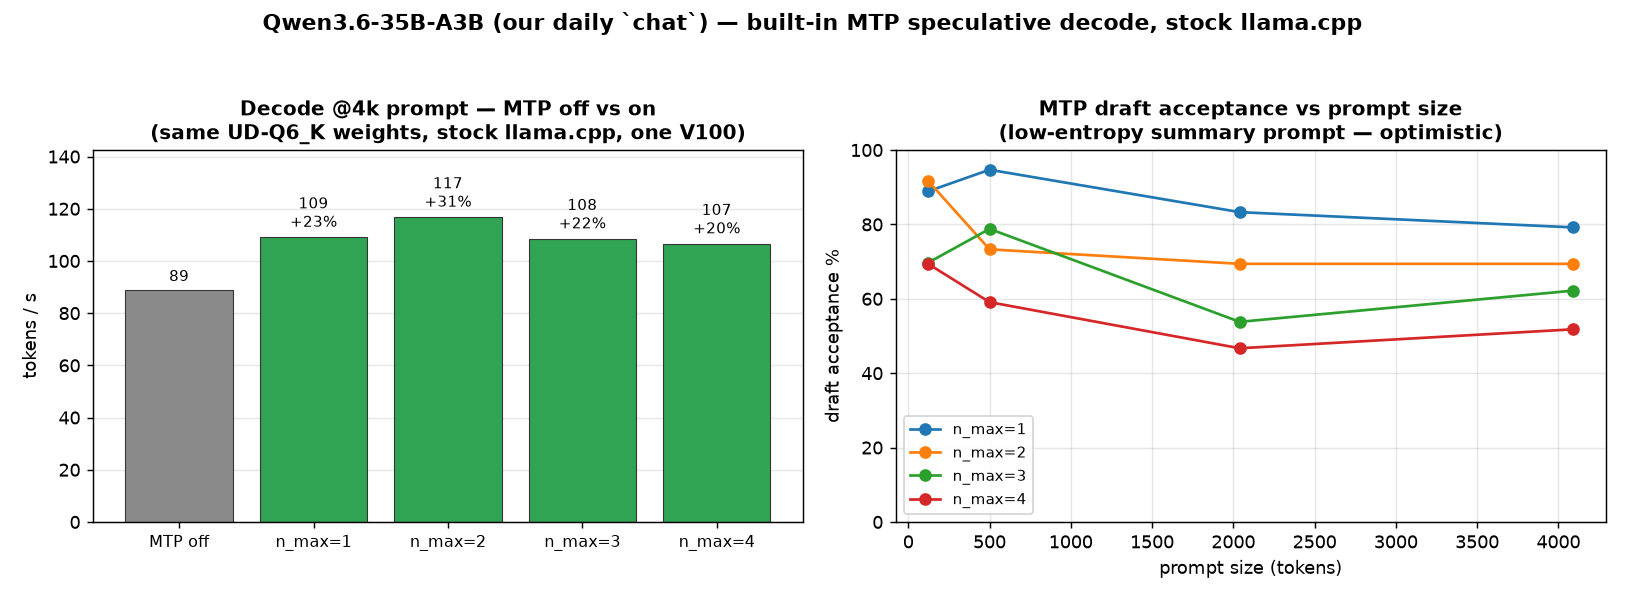
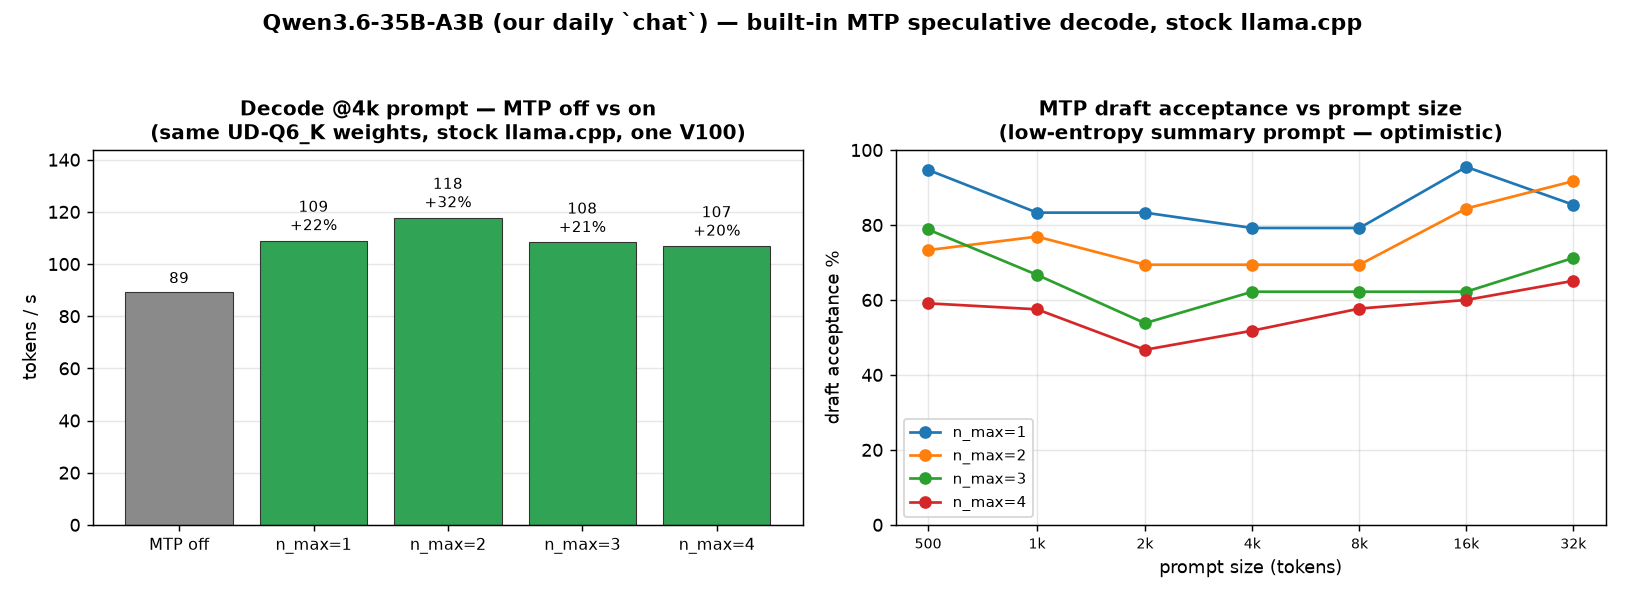
bench(mtp): extend chat prompt-size sweep to 500–32k and rerun
Widen the MTP prompt-size range in scripts/mtp-bench.py from [128,512,2048,4096]
to [512,1024,2048,4096,8192,16384,32768] and raise the test ctx 32768 -> 40960 so
a 32k prompt fits alongside the 256-token gen + margin (35B-A3B MoE q8_0 KV is
cheap; prod runs 96k).

- mtp-plot.py: keep the left "steady-state" panel pinned to the ~4k bucket (stable
  as the range grows, consistent with the other MTP sections) and put the
  acceptance panel on a log2 x-axis with k-formatted ticks for the wider range.
- Rerun on V100 idx1 (daily models unloaded/restored): decode @4k n_max=2 +32%
  (117.8 vs 89.3 t/s), and the wider range shows the gain grows to +57% @32k with
  a U-shaped acceptance curve that recovers to ~85–92% at 16–32k.
- benchmarking.md: refresh the @4k table, test config, and takeaways; add the
  long-context finding.

diff --git a/scripts/mtp-plot.py b/scripts/mtp-plot.py
@@ -41,9 +41,11 @@ def main():
     CSV, OUT = a.csv, a.out
     rows = load()
     nmaxes = sorted({int(r["nmax"]) for r in rows})
-    # steady-state decode per nmax — use the largest prompt bucket present
-    # (robust across tokenizers; e.g. Gemma yields 4092 vs Qwen 4091 for ~4k).
-    steady = max(int(r["prompt_tokens"]) for r in rows)
+    # steady-state decode per nmax — use the ~4k prompt bucket (closest to 4096),
+    # a representative chat prompt that stays stable as the sweep range grows and
+    # keeps this panel comparable to the other MTP sections (all "@4k steady-state").
+    avail = sorted({int(r["prompt_tokens"]) for r in rows})
+    steady = min(avail, key=lambda s: abs(s - 4096))
     dec = {}
     for r in rows:
         if int(r["prompt_tokens"]) == steady:
@@ -60,7 +62,7 @@ def main():
     axes[0].set_xticks(list(x)); axes[0].set_xticklabels(labels, fontsize=9)
     axes[0].set_ylabel("tokens / s"); axes[0].grid(axis="y", alpha=0.3)
     axes[0].set_axisbelow(True)
-    axes[0].set_title("Decode @4k prompt — MTP off vs on\n(same " + a.weights +
+    axes[0].set_title(f"Decode @{round(steady/1024)}k prompt — MTP off vs on\n(same " + a.weights +
                       " weights, stock llama.cpp, one V100)", fontsize=11, fontweight="bold")
     for rect, v, n in zip(b, vals, nmaxes):
         lbl = f"{v:.0f}" + ("" if n == 0 else f"\n+{v/base-1:.0%}")
@@ -79,6 +81,9 @@ def main():
             acc.append(float(m[0]["accept_pct"]) if m and m[0]["accept_pct"] else None)
         axes[1].plot(sizes, acc, marker="o", label=f"n_max={n}")
     axes[1].set_xlabel("prompt size (tokens)"); axes[1].set_ylabel("draft acceptance %")
+    axes[1].set_xscale("log", base=2)
+    axes[1].set_xticks(sizes)
+    axes[1].set_xticklabels([f"{round(s/1024)}k" if s >= 1000 else str(s) for s in sizes], fontsize=8)
     axes[1].set_title("MTP draft acceptance vs prompt size\n(low-entropy summary prompt "
                       "— optimistic)", fontsize=11, fontweight="bold")
     axes[1].grid(alpha=0.3); axes[1].legend(fontsize=8.5); axes[1].set_ylim(0, 100)

diff --git a/scripts/mtp-bench.py b/scripts/mtp-bench.py
@@ -29,9 +29,13 @@ STOCK_BIN = "/srv/ai/src/llama.cpp/build/bin/llama-server"
 SWAP = "http://127.0.0.1:9090"
 DATA_DIR = "/srv/ai/docs/data/mtp"
 GPU = 1                     # free V100 for testing (idx1)
-CTX = 32768                 # test ctx (weights ~28GB + MTP; leaves headroom on 32GB)
+CTX = 40960                 # test ctx: must exceed the largest prompt (32k) + gen +
+                            # margin. 35B-A3B MoE q8_0 KV is cheap (prod runs 96k), so
+                            # ~40k fits comfortably alongside ~28GB weights + MTP on 32GB.
 BATCH = 2048
-PROMPT_SIZES = [128, 512, 2048, 4096]
+# Prompt-size sweep spanning ~500 tokens up to 32k, doubling each step, to profile
+# MTP prefill/decode/acceptance across a wide context range.
+PROMPT_SIZES = [512, 1024, 2048, 4096, 8192, 16384, 32768]
 GEN_TOKENS = 256            # longer gen -> steadier decode + MTP acceptance signal
 
 

diff --git a/docs/benchmarking.md b/docs/benchmarking.md
@@ -513,8 +513,9 @@ the MTP-equipped file in a **separate** repo — `unsloth/Qwen3.6-35B-A3B-MTP-GG
 
 **This is a true apples-to-apples test: identical weights, identical engine, MTP off vs on**, so
 any decode gain is the speculative head, not a smaller quant (unlike the pxq_llama "+30%" — see
-`benchmark_pxq_llama.md` §14). One V100 (idx1), ctx 32768, q8_0 KV, `--parallel 1`,
-batch/ubatch 2048, greedy; 256-token generations. Harness: `scripts/mtp-bench.py`.
+`benchmark_pxq_llama.md` §14). One V100 (idx1), ctx 40960, q8_0 KV, `--parallel 1`,
+batch/ubatch 2048, greedy; 256-token generations; prompt sweep **500 → 32k tokens**.
+Harness: `scripts/mtp-bench.py`.
 
 ![MTP off vs on — decode and draft acceptance](img/mtp-qwen35-chat.png)
 
@@ -522,20 +523,26 @@ Steady-state at a 4k-token prompt:
 
 | Config | Prefill @4k | **Decode @4k** | Δ decode | Draft accept | Peak VRAM |
 |---|---:|---:|---:|---:|---:|
-| **MTP off** (baseline) | 1122 t/s | **88.9 t/s** | — | — | 29.4 GB |
-| MTP `n_max=1` | 1095 t/s | 109.1 t/s | **+23%** | 79% | 30.0 GB |
-| **MTP `n_max=2`** | 1100 t/s | **116.8 t/s** | **+31%** | 69% | 30.1 GB |
-| MTP `n_max=3` | 1094 t/s | 108.5 t/s | +22% | 62% | 30.2 GB |
-| MTP `n_max=4` | 1099 t/s | 106.6 t/s | +20% | 52% | 30.2 GB |
+| **MTP off** (baseline) | 1182 t/s | **89.3 t/s** | — | — | 29.2 GB |
+| MTP `n_max=1` | 1129 t/s | 109.0 t/s | **+22%** | 79% | 29.8 GB |
+| **MTP `n_max=2`** | 1129 t/s | **117.8 t/s** | **+32%** | 69% | 29.9 GB |
+| MTP `n_max=3` | 1125 t/s | 108.3 t/s | +21% | 62% | 29.9 GB |
+| MTP `n_max=4` | 1124 t/s | 106.9 t/s | +20% | 52% | 30.0 GB |
 
 Takeaways:
 
-- **MTP is a real, lossless decode win on our actual daily model**: ~**+25–31%** decode at
-  identical weights (peaks ~+35–42% at shorter 512-token prompts). Output is unchanged — the
+- **MTP is a real, lossless decode win on our actual daily model**: ~**+20–32%** decode at
+  identical weights (peaks ~**+37–43%** at shorter 512-token prompts). Output is unchanged — the
   main model verifies every drafted token.
 - **`n_max=2` is the sweet spot** (matches unsloth's recommendation). Deeper drafting
   (`n_max` 3–4) *lowers* acceptance (52–62%) — more wasted draft passes — and nets less.
-- **Prefill cost is negligible** here (~2%, 1122→1100 t/s) — much cheaper than the pxq_llama
+- **Long context benefits *more*, not less.** Across the 500→32k sweep, `n_max=2` decode gain
+  rises from **+32% @4k to +57% @32k** (116.8 vs 74.5 t/s baseline) — the baseline decode slows
+  under the growing KV while the cheap MTP verify step does not. Acceptance is **U-shaped**: it
+  dips through the 2–8k mid-range (~69%) then *recovers* to **~85–92% at 16–32k** as the
+  low-entropy summary prompt becomes more predictable. The +32% @4k figure is a floor, not a
+  ceiling, for long-context chat.
+- **Prefill cost is negligible** here (~4%, 1182→1129 t/s) — much cheaper than the pxq_llama
   fork's MTP, which taxed prefill heavily (§14). Stock llama.cpp's in-model MTP only adds a small
   per-step draft.
 - **VRAM cost is ~0.6–0.8 GB** (draft path + head). **Production fit:** our `chat` slot serves
@@ -544,7 +551,7 @@ Takeaways:
   `chat` runs alone on idx2 (comfyui-secure evicts it before image gen via the free_gpu hook), so
   the full-card peak is the real ceiling.
 - **Acceptance here is optimistic**: the summarization prompt is low-entropy (highly
-  predictable), so real chat/code will accept less and gain less than +31%. Still, even a
+  predictable), so real chat/code will accept less and gain less than +32%. Still, even a
   conservative +15–20% is free throughput from a model swap + one flag.
 
 **How to enable** (this is the shipped `chat` block — ctx capped at 96k to fit MTP):
